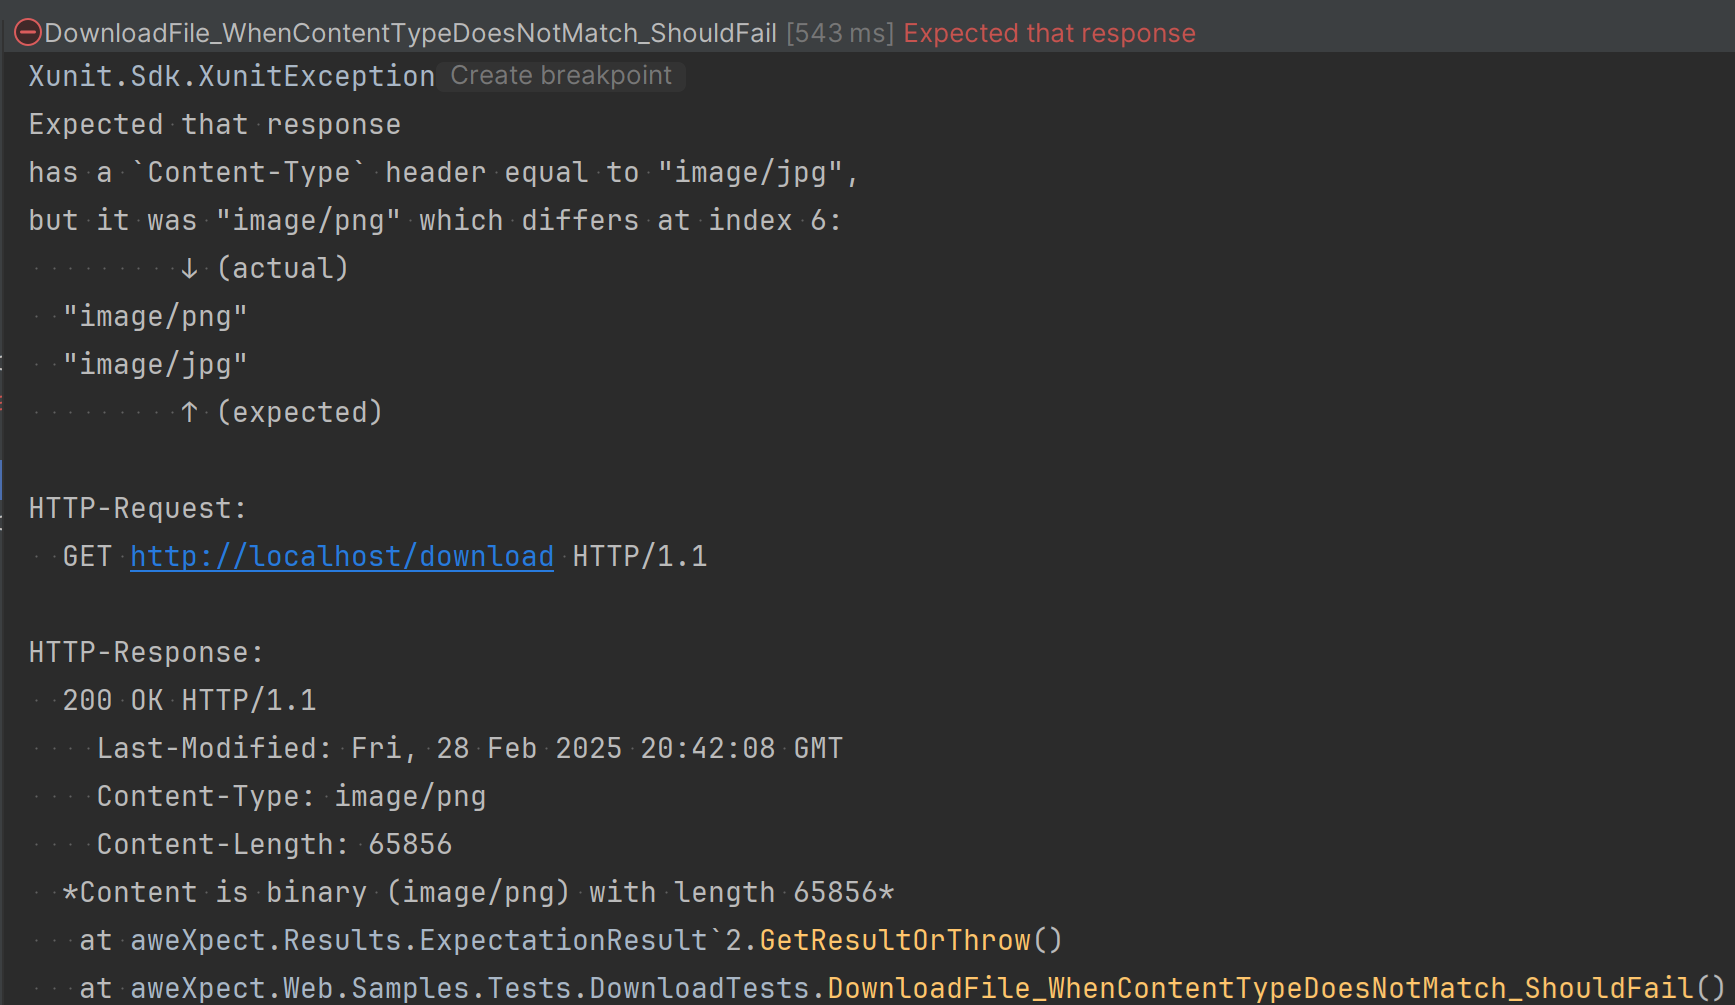
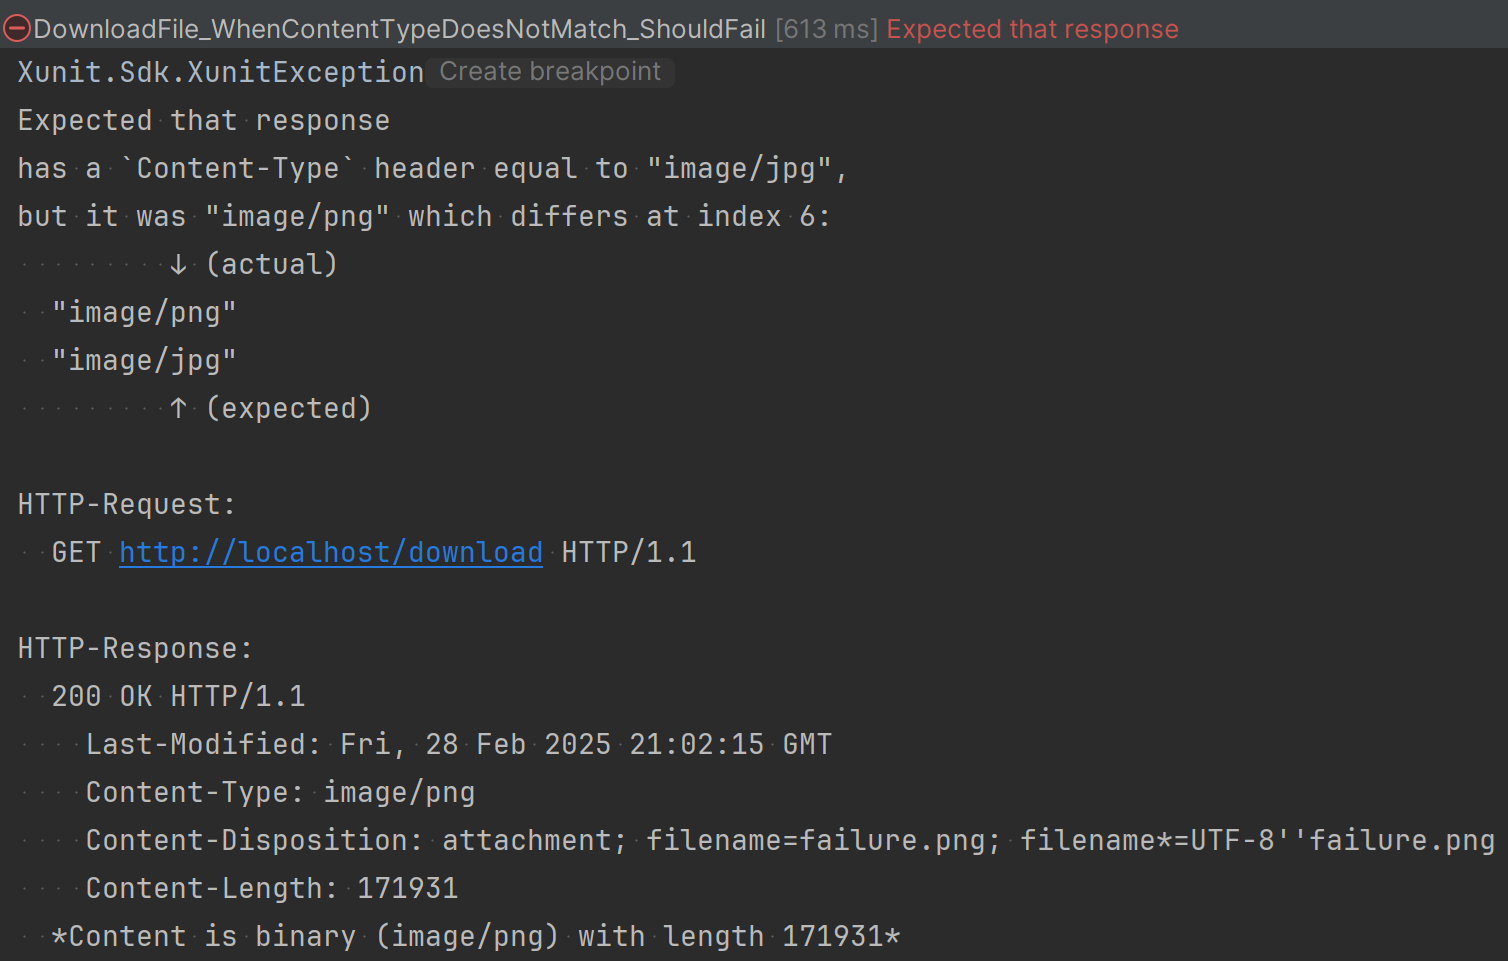
Change image to be up-to-date

diff --git a/Tests/aweXpect.Web.Samples.Tests/DownloadTests.cs b/Tests/aweXpect.Web.Samples.Tests/DownloadTests.cs
@@ -38,17 +38,17 @@ public class DownloadTests(WebApplicationFactory<Program> factory) : IClassFixtu
 			               "image/png"
 			               "image/jpg"
 			                      ↑ (expected)
-			             
+
 			             HTTP-Request:
 			               GET http://localhost/download HTTP/1.1
-			             
+
 			             HTTP-Response:
 			               200 OK HTTP/1.1
 			                 Last-Modified: ???, ?? ??? ???? ??:??:?? ???
 			                 Content-Type: image/png
 			                 Content-Disposition: attachment; filename=failure.png; filename*=UTF-8''failure.png
-			                 Content-Length: 171931
-			               *Content is binary (image/png) with length 171931*
+			                 Content-Length: 141834
+			               *Content is binary (image/png) with length 141834*
 			             """).AsWildcard();
 	}
 }
